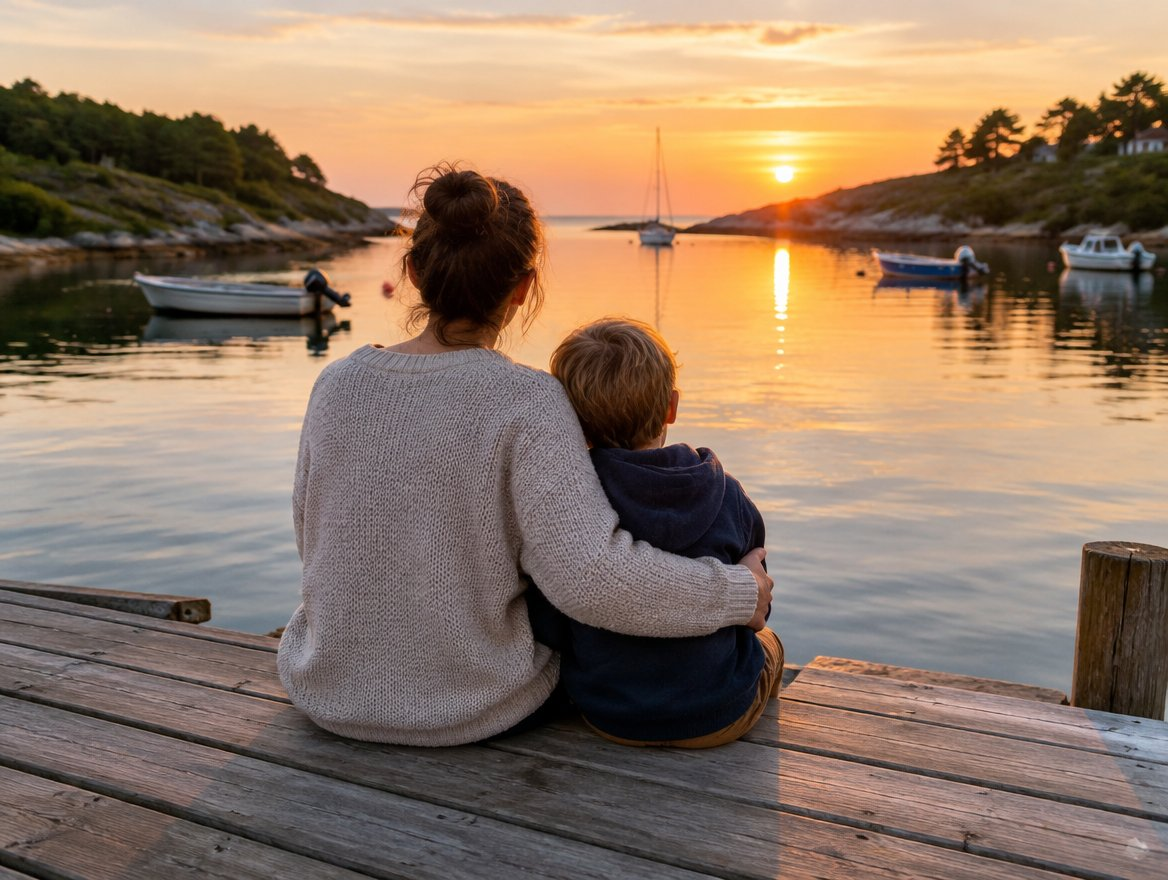
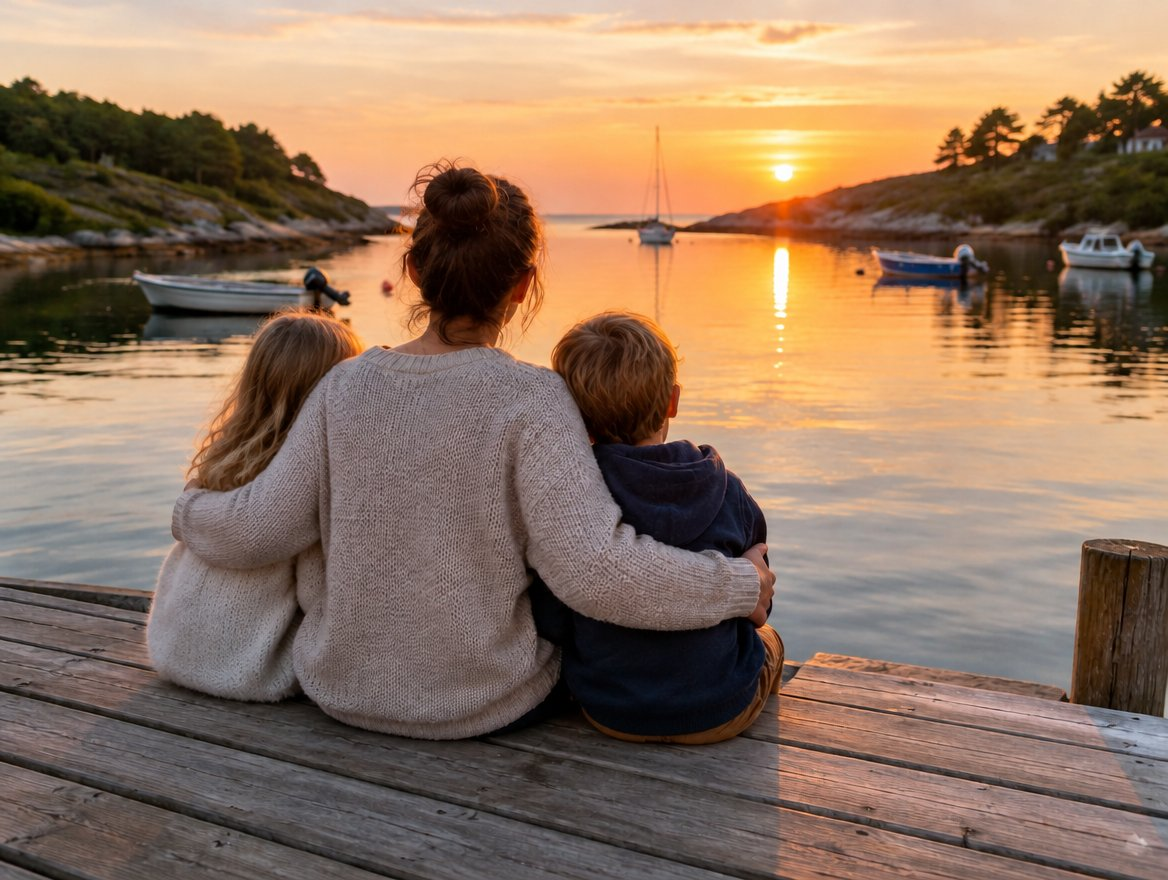
Startbild mit Mutter und zwei Kindern
Neues Startbild mit zusätzlichem Mädchen. Auf dem Desktop wird eine
breite Panorama-Version geladen, damit die Familie links neben dem
Text frei steht; auf dem Handy die Version im 4:3-Format.

Claude-Session: https://claude.ai/code/session_01A3BELFi85ZLtiMmFYpcMBD

diff --git a/css/style.css b/css/style.css
@@ -38,9 +38,10 @@ a { color: #1D3644; }
 a:hover { color: #B9552F; }
 img { max-width: 100%; }
 
-/* Startbild auf großen Bildschirmen etwas nach links schieben, damit Mutter und Kind gut sichtbar bleiben */
+/* Startbild: auf großen Bildschirmen das breite Panorama, die Familie steht links frei neben dem Text */
+.hero picture { display: contents; }
 @media (min-width: 900px) {
-  .hero-img { max-width: none; width: 130% !important; left: -30% !important; object-position: 50% 30% !important; }
+  .hero-img { object-position: 8% center !important; }
 }
 
 /* Unterseiten (Impressum, Datenschutz) */
@@ -53,7 +54,7 @@ img { max-width: 100%; }
 /* Startbereich auf dem Handy: Bild oben frei sichtbar, Text darunter auf dunklem Grund */
 @media (max-width: 899px) {
   .hero { min-height: 0 !important; display: block !important; }
-  .hero-img { position: relative !important; display: block; height: min(62vh, 520px) !important; object-position: 42% 35% !important; }
+  .hero-img { position: relative !important; display: block; height: min(62vh, 520px) !important; object-position: 30% 35% !important; }
   .hero-tint, .hero-side { display: none !important; }
   .hero-top { height: 140px !important; bottom: auto !important; background: linear-gradient(180deg, rgba(20, 38, 48, 0.7) 0%, rgba(20, 38, 48, 0) 100%) !important; }
   .hero-header { position: absolute !important; top: 0; left: 0; right: 0; flex-wrap: nowrap !important; }

diff --git a/index.html b/index.html
@@ -11,7 +11,10 @@
 <div style="font-family: 'Nunito Sans', system-ui, sans-serif; color: #1D3644; background: #F6F3EC; font-size: 17px; line-height: 1.6">
 
 <section id="start" class="hero" style="position: relative; min-height: 780px; display: flex; flex-direction: column; overflow: hidden; background: #1D3644">
-<img class="hero-img" src="bilder/startbild-familie.jpg" alt="Mutter und Kind sitzen von hinten gesehen auf einem Steg am Hafen bei Sonnenuntergang" style="position: absolute; top: 0; left: 0; width: 100%; height: 100%; object-fit: cover; object-position: 30% center">
+<picture>
+<source media="(min-width: 900px)" srcset="bilder/startbild-familie-breit.jpg">
+<img class="hero-img" src="bilder/startbild-familie.jpg" alt="Mutter und zwei Kinder sitzen von hinten gesehen auf einem Steg am Hafen bei Sonnenuntergang" style="position: absolute; top: 0; left: 0; width: 100%; height: 100%; object-fit: cover; object-position: 30% center">
+</picture>
 <div class="hero-tint" style="position: absolute; inset: 0; background: rgba(20, 38, 48, 0.25)"></div>
 <div class="hero-side" style="position: absolute; inset: 0; background: linear-gradient(270deg, rgba(20, 38, 48, 0.85) 0%, rgba(20, 38, 48, 0.6) 42%, rgba(20, 38, 48, 0) 72%)"></div>
 <div class="hero-top" style="position: absolute; inset: 0; background: linear-gradient(180deg, rgba(20, 38, 48, 0.6) 0%, rgba(20, 38, 48, 0) 22%)"></div>
